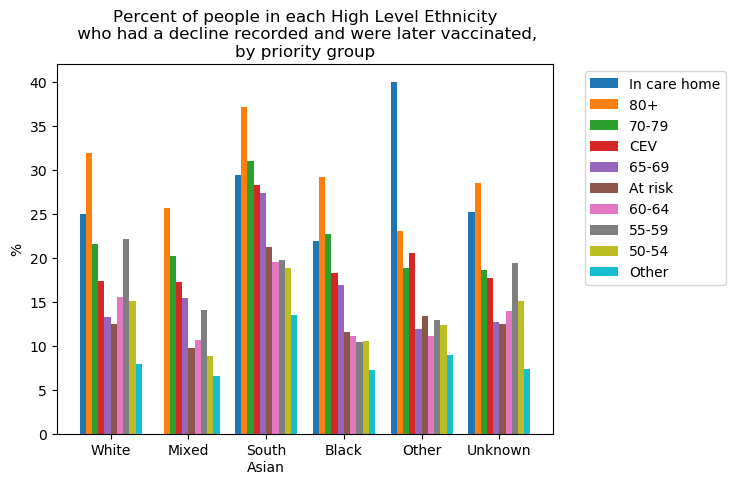
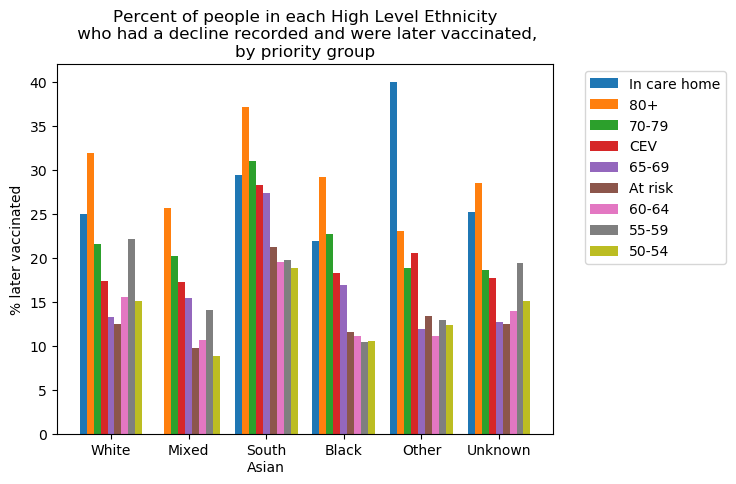
Chart for number of weeks delay
Also tweaks to other charts including removing "other" group

diff --git a/analysis/generate_extra_combined_charts.py b/analysis/generate_extra_combined_charts.py
@@ -12,8 +12,10 @@ def plot_grouped_bar(backend="combined", output_dir="released_outputs/combined",
     if measure == "declined":
         df = pd.read_csv(f"released_outputs/{backend}/tables/waves_1_9_declined_{breakdown}.csv", index_col=0)
         df = df.rename(columns=wave_column_headings[""])
+        df = df[[c for c in df.columns if c!="Other"]]
         breakdown_title = breakdown.replace("_"," ").title().replace("Imd","IMD")
         title = f'Percent of people in each {breakdown_title}\n who have a decline recorded and are unvaccinated,\nby priority group'
+        ylabel = "% with a decline recorded"
         width = 0.1 # the width of the bars
     
     elif measure == "declined_then_accepted" and breakdown=="high_level_ethnicity":
@@ -24,13 +26,27 @@ def plot_grouped_bar(backend="combined", output_dir="released_outputs/combined",
         df = df[["White", "Mixed", "South Asian", "Black", "Other", "Unknown"]]
         # reorder cohorts into priority order using list of cohorts
         groups = list(wave_column_headings[''].values())
-        groups = [g for g in groups if g in df.index]
+        groups = [g for g in groups if g in df.index and g!="Other"]
         df = df.transpose()[groups]
 
         breakdown_title = breakdown.replace("_"," ").title().replace("Imd","IMD")
         title = f'Percent of people in each {breakdown_title}\n who had a decline recorded and were later vaccinated,\nby priority group'
-        width = 0.08 # the width of the bars
+        ylabel = "% later vaccinated"
+        width = 0.09 # the width of the bars
 
+    elif measure == "declined_then_accepted" and breakdown=="weeks_diff":
+        df = pd.read_csv(f"released_outputs/{backend}/additional_figures/declined_accepted_weeks_by_wave.csv", index_col=[0])
+    
+        # reorder cohorts into priority order using list of cohorts
+        groups = list(wave_column_headings[''].values())
+        groups = [g for g in groups if g in df.index and g!="Other"]
+        data_labels = df.copy().loc[groups][["0-<2 weeks_percent", "2-<4 weeks_percent", "1-<2 months_percent", ">=2 months_percent"]].round(0).astype(int)
+        df = df.loc[groups][["0-<2 weeks", "2-<4 weeks", "1-<2 months", ">=2 months"]]
+
+        breakdown_title = breakdown.replace("_"," ").title().replace("Imd","IMD")
+        title = f'Length of time between a decline being recorded\n and a later vaccination, by priority group'
+        ylabel = "number of patients"
+        width = 0.2 # the width of the bars
 
     print(df.head())
     labels = df.index
@@ -47,12 +63,21 @@ def plot_grouped_bar(backend="combined", output_dir="released_outputs/combined",
         rects1 = ax.bar(locs[n], y, width, label=c)
 
     # Add some text for labels, title and custom x-axis tick labels, etc.
-    ax.set_ylabel('%')
+    ax.set_ylabel(ylabel)
     ax.set_title(title)
     ax.set_xticks(x)
     labels_new = [l.replace(" ", "\n") for l in labels]
     ax.set_xticklabels(labels_new)
     legend = ax.legend(bbox_to_anchor=(1.05, 1), loc='upper left')
+
+    # add data labels on bars
+    if measure == "declined_then_accepted" and breakdown=="weeks_diff":
+        rects = ax.patches
+        for rect, label in zip(rects, data_labels.transpose().stack().values):
+            height = rect.get_height()
+            ax.text(rect.get_x() + rect.get_width() / 2, height + 5, label,
+                    ha='center', va='bottom',
+                    fontsize=6)
 
     fig.savefig(f"{output_dir}/additional_figures/{measure}_by_{breakdown}_by_priority_group.png", bbox_extra_artists=(legend,), bbox_inches='tight')
 

diff --git a/analysis/run_charts_and_tables combined.py b/analysis/run_charts_and_tables combined.py
@@ -17,5 +17,5 @@ plot_grouped_bar(backend=backend, output_dir=base_path, breakdown="imd_band")
 
 
 # create summary chart of patients declining then accepting vaccines, by priority group
-
+plot_grouped_bar(backend=backend, output_dir=base_path, measure= "declined_then_accepted", breakdown="weeks_diff")
 plot_grouped_bar(backend=backend, output_dir=base_path, measure= "declined_then_accepted", breakdown="high_level_ethnicity")
